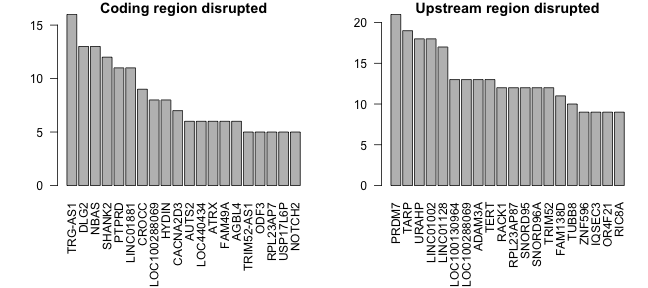
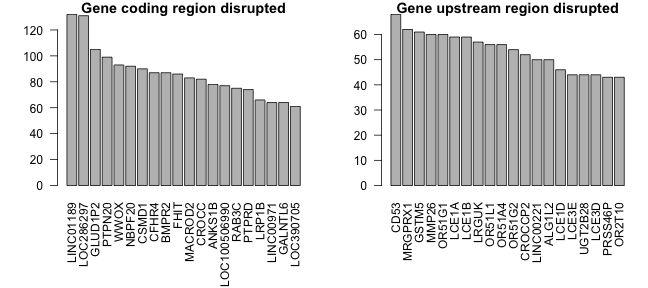
modified:   .DS_Store 	modified:   R/cnv.freq.plot.r 	modified:   README.Rmd 	modified:   README.md 	modified:   figure/plot4-1.png 	modified:   figure/plot5-1.png 	modified:   figure/plot7-1.png 	modified:   man/cnv.freq.plot.Rd 	modified:   vignettes/svcnvplus_howto.Rmd

diff --git a/README.md b/README.md
@@ -353,6 +353,8 @@ code > span.paren { color: #000000;}
   
 
 
+# `svncvplus` R toolkit for the downstream analyses of structural variant datasets
+
 `svncvplus` is an R package designed for downstream analyses of DNA copy number variations (CNV) and other structural variants (SV).`svcnvplus` is a toolkit for the integration of SV datasets, visualization and characterization of complex somatic SVs.\n  
   
 CNV data can be derived from genotyping and CGH arrays, as well as next generation sequencing; different segmentation algorithms are used to obtain dosage variations (duplications and deletions) across the genome. Alternatively SV calls can be inferred from discordantly aligned reads from whole genome sequencing (WGS) using different algorithms (e.g [manta](https://github.com/Illumina/manta), [lumpy](https://github.com/arq5x/lumpy-sv), etc).\n  
@@ -397,12 +399,17 @@ devtools::install_github("gonzolgarcia/svcnvplus")
 ## Input data
 
 Two data types are allowed:\n
-__CNV segmentation data:__ 6 columns (sample, chrom, start, end, probes & segmean). Most algorithms studying CNVs produce segmented data indicating genomic boundaries and the segment copy number value (segmean); `svcnvplus` assumes CNV expresed as log-ratios: __e.g.:__ $\log2(tumor/normal)$ Those values do not necesarily represent entire copy number states as many datasets may contain admixture or subclonal populations.\n
+  
+__CNV segmentation data:__ 6 columns (sample, chrom, start, end, probes & segmean). Most algorithms studying CNVs produce segmented data indicating genomic boundaries and the segment copy number value (segmean); `svcnvplus` assumes CNV expresed as log-ratios: __e.g.:__ $\log2(tumor/normal)$ Those values do not necesarily represent entire copy number states as many datasets may contain admixture or subclonal populations.
+  
 __Structural Variant calls:__ 8 columns (sample, chrom1, pos1, strand1, chrom2, pos2, strand2, svclass). are obtained from WGS by identifying reads and read-pairs that align discordantly to the reference genome. The types accepted in the svclass field are: duplication(DUP), deletion(DEL), inversion(INV), insertion(INS), translocation(TRA) and breakend(BND) for undefined variants.\n
+  
 As long as the sample field in both segmentation and SVs contains common sets of samples in the 'sample' column, both data types can be integrated.\n
+  
 
 
 To explore the basic functionalities of svcnvplus, several two datasets are included:
+  
 * CCLE lung cancer derived cell lines; This data.frames contain information about CNV segments and structural variants respectively for lung cancer derived cell lines. This data was obtained from <https://depmap.org/portal/download/>.
     * `svcnvplus::segdat_lung_ccle`
     * `svcnvplus::svdat_lung_ccle`.  
@@ -414,14 +421,6 @@ Both datasets are `lazy` loaded with `svcnvplus`
 
 ```r
 library(svcnvplus)
-dim(nbl_segdat)
-```
-
-```
-## [1] 17680     6
-```
-
-```r
 head(nbl_segdat)
 ```
 
@@ -433,14 +432,6 @@ head(nbl_segdat)
 ## 4 PAISNS          1  5971000 12481000        3256 -0.9593
 ## 5 PAISNS          1 12483000 12777000         148 -0.2305
 ## 6 PAISNS          1 12779000 15551000        1287 -0.0083
-```
-
-```r
-dim(nbl_svdat)
-```
-
-```
-## [1] 7366    8
 ```
 
 ```r
@@ -658,7 +649,7 @@ circ.chromo.plot(shatt_lung,sample.id = "SCLC21H_LUNG")
 circ.chromo.plot(shatt_lung,sample.id = "NCIH522_LUNG")
 ```
 
-<img src="figure/plot4-1.png" title="Circos plot representing c LUNG cancer cell line with chromothripsis" alt="Circos plot representing c LUNG cancer cell line with chromothripsis" style="display: block; margin: auto;" />
+<img src="figure/plot4-1.png" title="Circos plot representing c LUNG cancer cell lines with chromothripsis" alt="Circos plot representing c LUNG cancer cell lines with chromothripsis" style="display: block; margin: auto;" />
 
 ### Recurrently shattered regions
 
@@ -751,10 +742,10 @@ Instead of focusing on high-level dosage changes, we evaluate whether CNV break 
 
 
 ```r
-results_cnv <- cnv.break.annot(nbl_segdat, fc.pct = 0.2, genome.v="hg19",clean.brk = 8,upstr = 50000,verbose=FALSE)
+results_cnv <- cnv.break.annot(segdf_clean, fc.pct = 0.2, genome.v="hg19",clean.brk = 8,upstr = 50000,verbose=FALSE)
 par(mfrow=c(1,2),mar=c(7,4,1,1))
-barplot(sort(unlist(lapply(results_cnv$disruptSamples,length)),decreasing=T)[1:20],las=2,main="Coding region disrupted")
-barplot(sort(unlist(lapply(results_cnv$upstreamSamples,length)),decreasing=T)[1:20],las=2,main="Upstream region disrupted")
+barplot(sort(unlist(lapply(results_cnv$disruptSamples,length)),decreasing=T)[1:20],las=2,main="Gene coding region disrupted")
+barplot(sort(unlist(lapply(results_cnv$upstreamSamples,length)),decreasing=T)[1:20],las=2,main="Gene upstream region disrupted")
 ```
 
 <img src="figure/plot7-1.png" title="Recurrently altered genes with overlapping CNV breakpoints" alt="Recurrently altered genes with overlapping CNV breakpoints" style="display: block; margin: auto;" />
